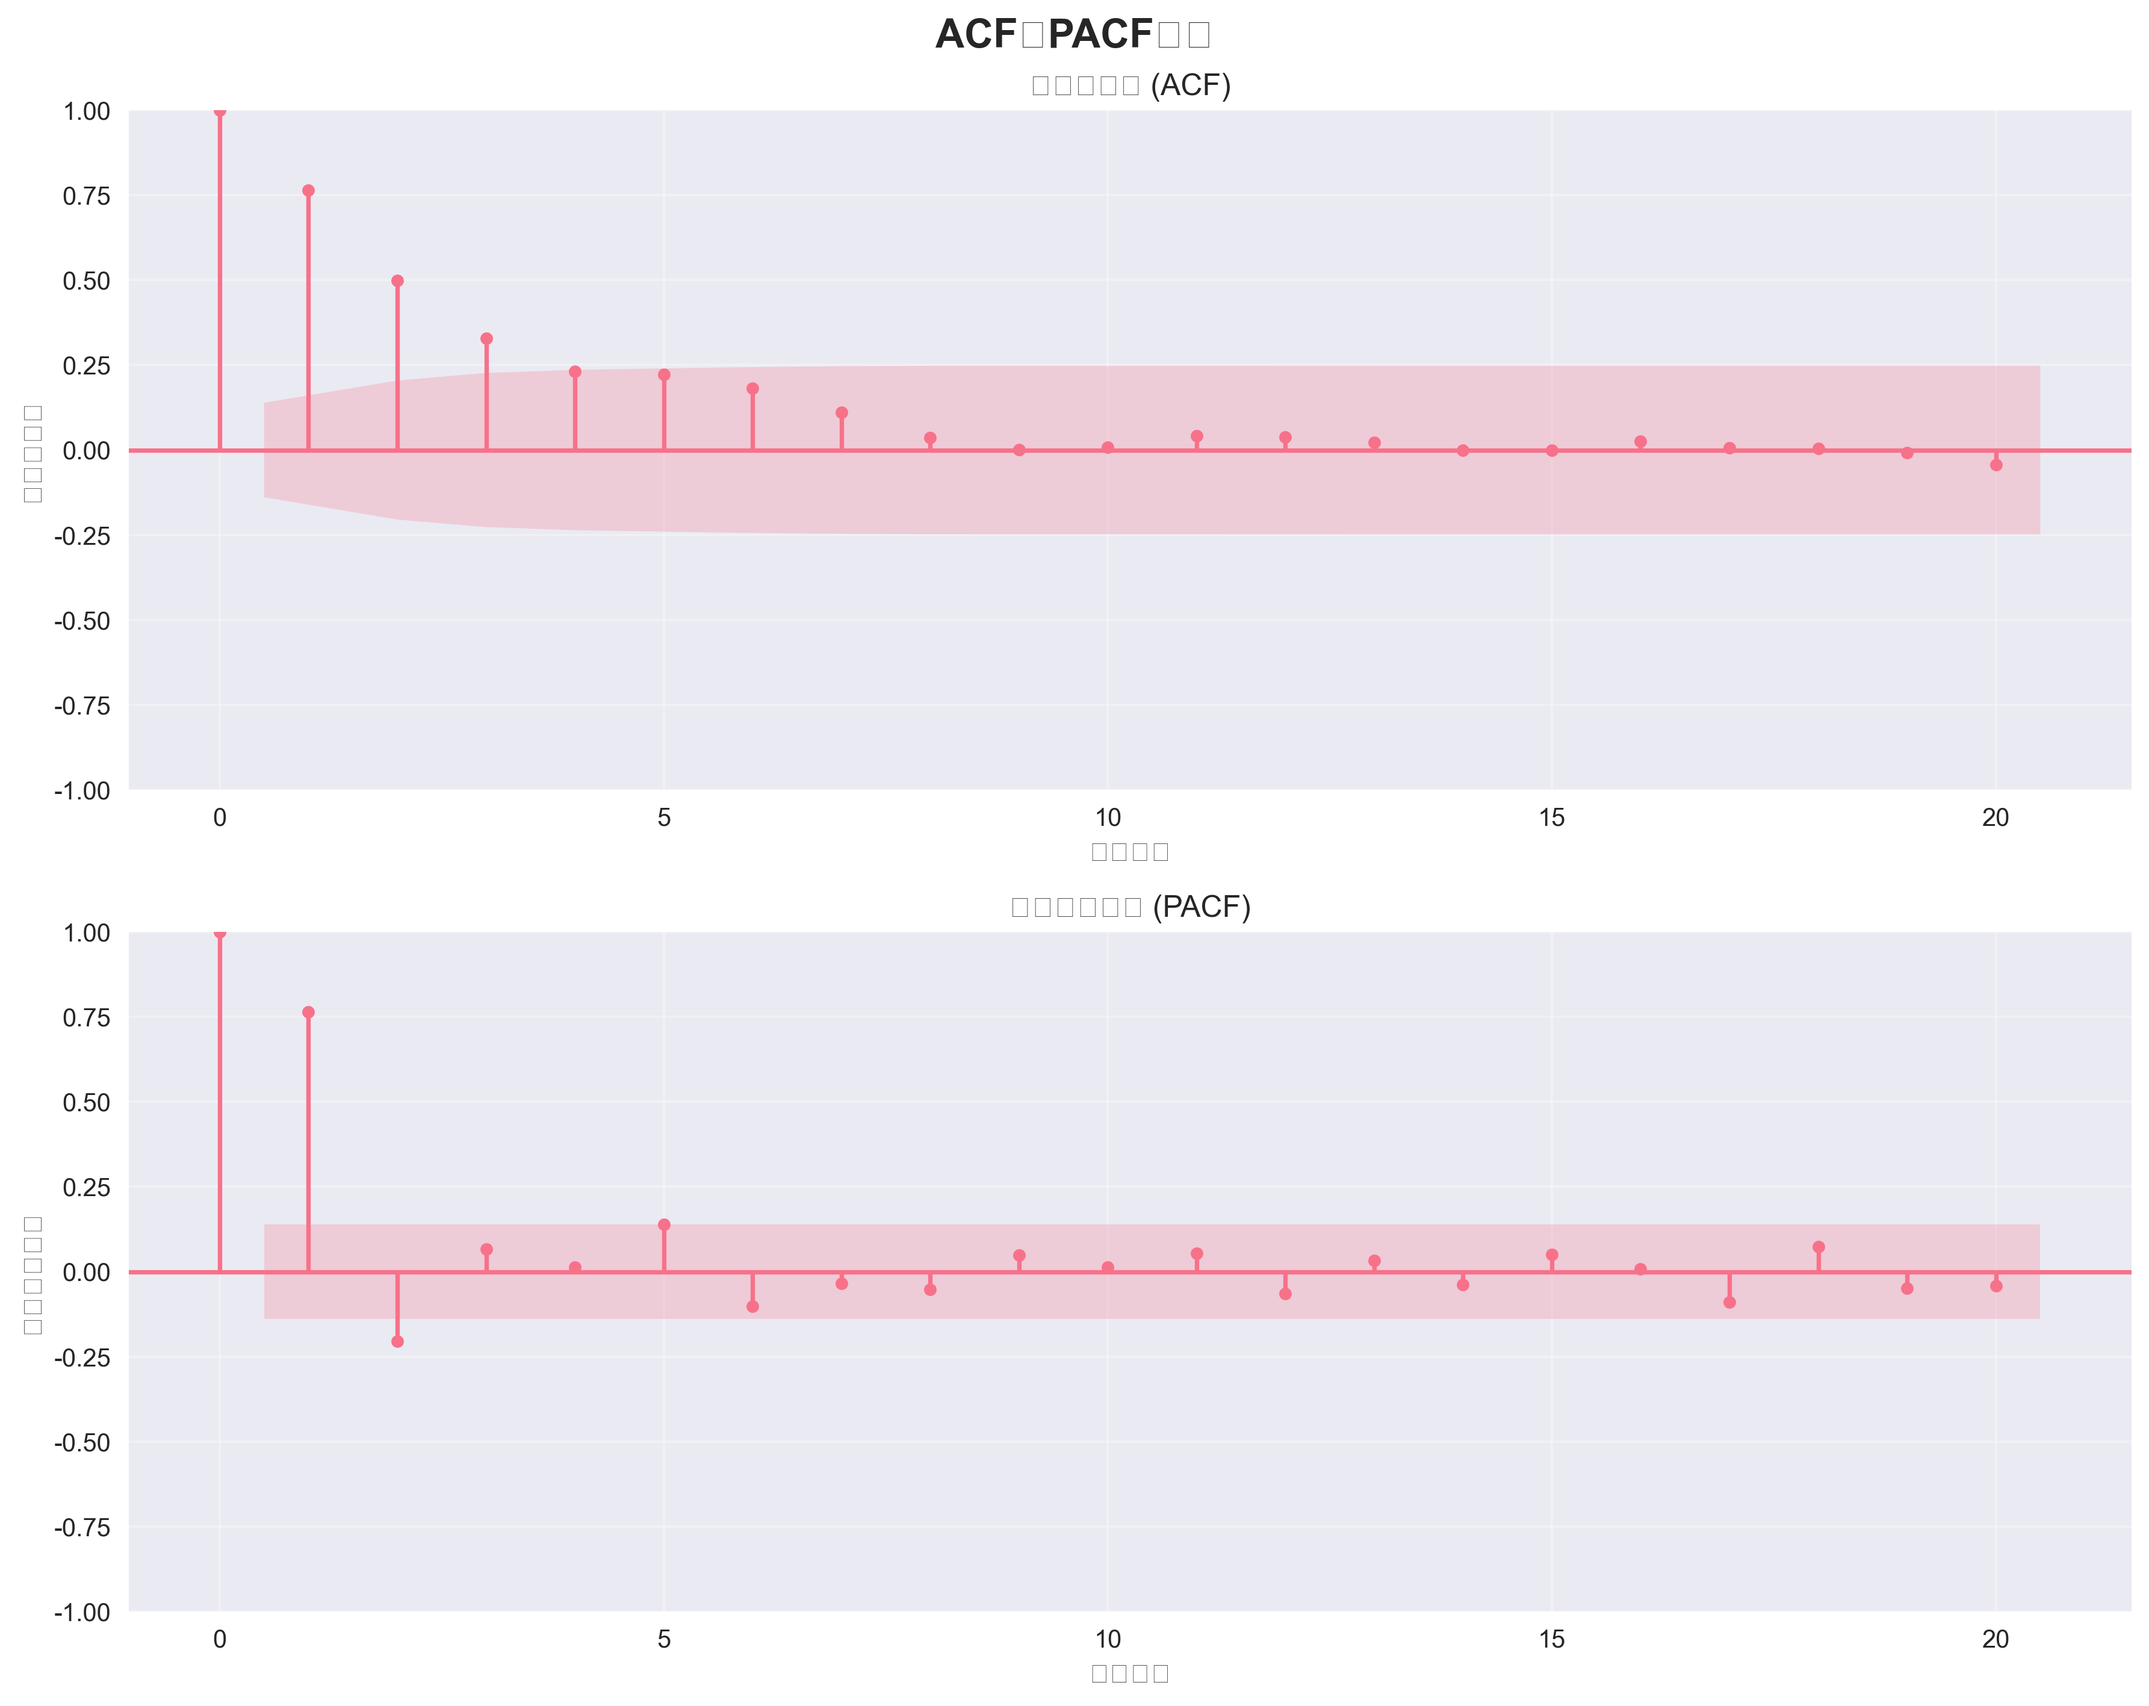
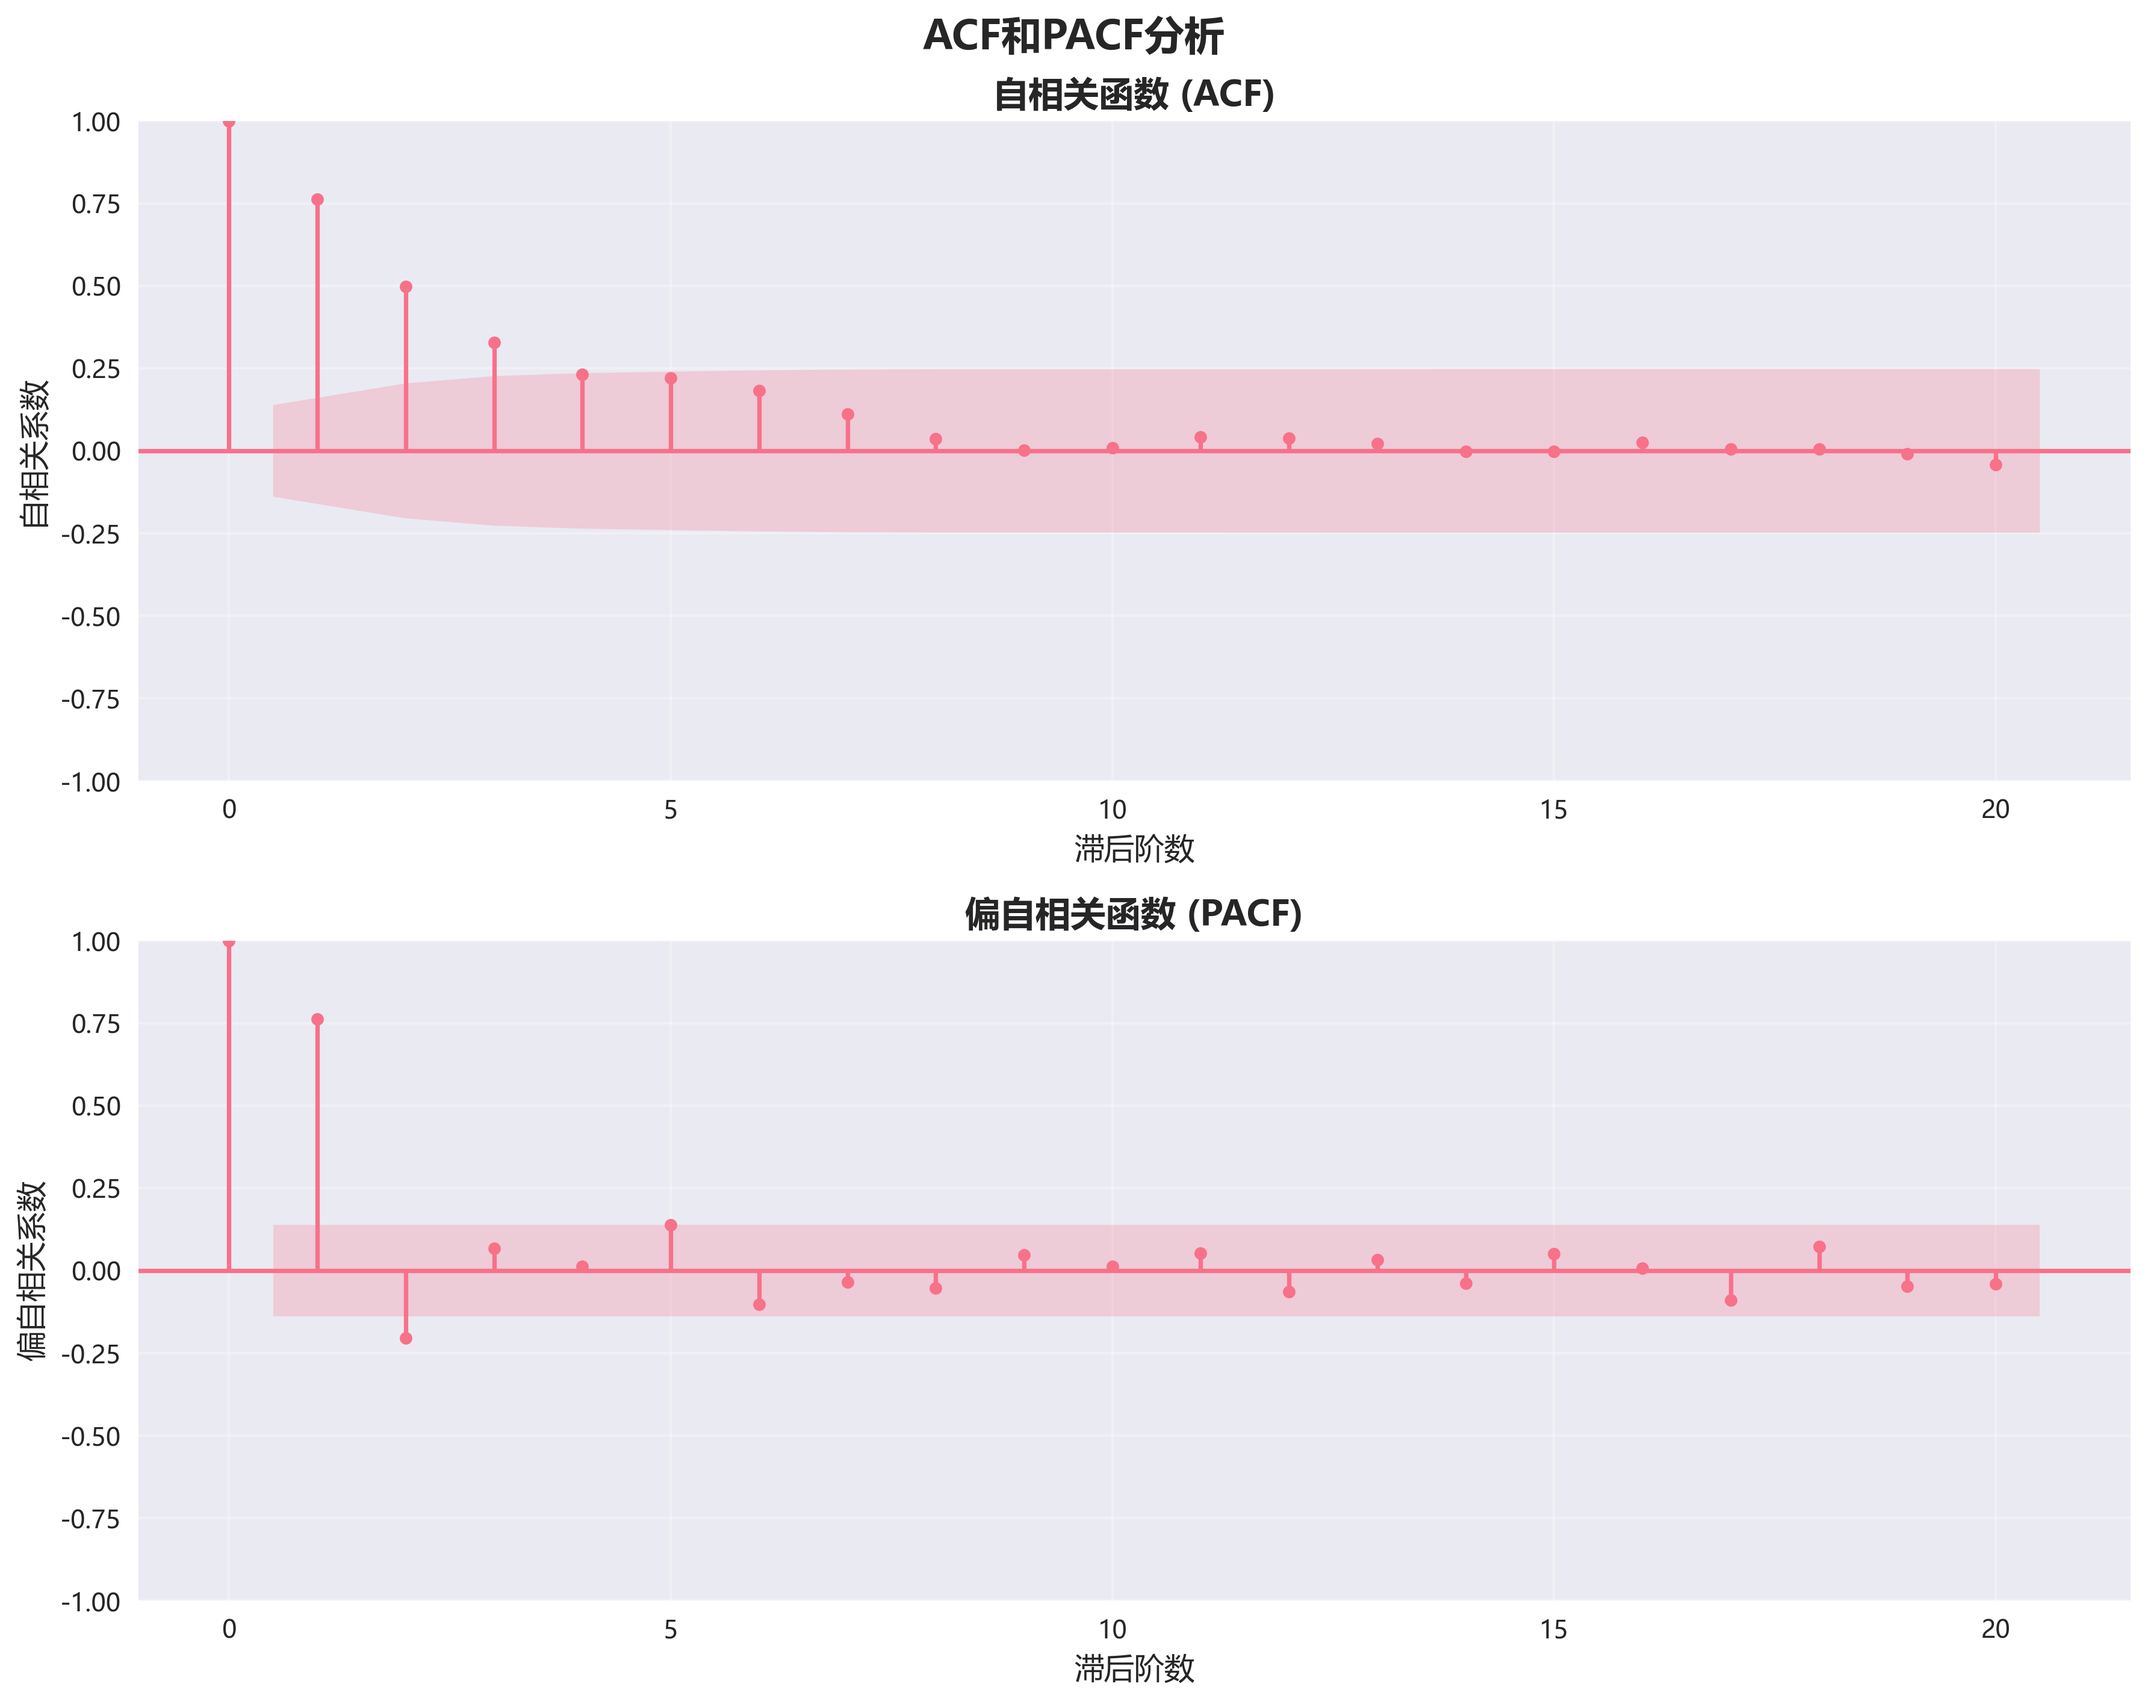
Refactor output paths and enhance Chinese font support
Updated output and data directory paths in example scripts to use 'data' and 'output' instead of 'examples/data' and 'examples/output'. Improved Chinese font handling in plotter.py for better cross-platform compatibility, with dynamic font selection and clearer font setup. Enhanced plot appearance with consistent font sizes and bold titles. Removed obsolete test output files.

diff --git a/time_series_insight/visualization/plotter.py b/time_series_insight/visualization/plotter.py
@@ -6,26 +6,91 @@
 
 import matplotlib.pyplot as plt
 import matplotlib.dates as mdates
+import matplotlib.font_manager as fm
 import seaborn as sns
 import numpy as np
 import pandas as pd
+import platform
 from typing import Dict, Any, Optional, Tuple, List
 from statsmodels.graphics.tsaplots import plot_acf, plot_pacf
 from statsmodels.tsa.seasonal import seasonal_decompose
 import warnings
 
-# 设置中文字体
-plt.rcParams['font.sans-serif'] = ['SimHei', 'Microsoft YaHei', 'DejaVu Sans']
-plt.rcParams['axes.unicode_minus'] = False
+
+def setup_chinese_fonts():
+    """
+    设置中文字体支持
+
+    根据不同操作系统自动选择合适的中文字体
+    """
+    system = platform.system()
+
+    # 定义不同系统的中文字体列表
+    font_candidates = []
+
+    if system == "Windows":
+        font_candidates = [
+            'Microsoft YaHei',
+            'SimHei',
+            'SimSun',
+            'KaiTi',
+            'FangSong'
+        ]
+    elif system == "Darwin":  # macOS
+        font_candidates = [
+            'PingFang SC',
+            'Hiragino Sans GB',
+            'STHeiti',
+            'Arial Unicode MS'
+        ]
+    else:  # Linux
+        font_candidates = [
+            'WenQuanYi Micro Hei',
+            'WenQuanYi Zen Hei',
+            'Noto Sans CJK SC',
+            'Source Han Sans SC',
+            'DejaVu Sans'
+        ]
+
+    # 获取系统可用字体
+    available_fonts = [f.name for f in fm.fontManager.ttflist]
+
+    # 选择第一个可用的中文字体
+    selected_font = None
+    for font in font_candidates:
+        if font in available_fonts:
+            selected_font = font
+            break
+
+    # 如果没有找到中文字体，使用默认字体
+    if selected_font is None:
+        selected_font = 'DejaVu Sans'
+        print(f"警告: 未找到合适的中文字体，使用默认字体 {selected_font}")
+        print("建议安装中文字体以获得更好的显示效果")
+
+    # 设置matplotlib字体参数
+    plt.rcParams['font.sans-serif'] = [selected_font] + font_candidates
+    plt.rcParams['axes.unicode_minus'] = False
+    plt.rcParams['font.size'] = 10
+
+    # 清除字体缓存
+    plt.rcParams['font.family'] = 'sans-serif'
+
+    print(f"已设置中文字体: {selected_font}")
+    return selected_font
+
+
+# 初始化中文字体设置
+setup_chinese_fonts()
 
 
 class TimeSeriesPlotter:
     """时间序列可视化器"""
-    
+
     def __init__(self, figsize: Tuple[int, int] = (12, 8), style: str = 'seaborn-v0_8'):
         """
         初始化可视化器
-        
+
         Args:
             figsize: 图形大小
             style: 绘图风格
@@ -35,27 +100,37 @@ class TimeSeriesPlotter:
             plt.style.use(style)
         except:
             plt.style.use('default')
-        
+
         # 设置seaborn样式
         sns.set_palette("husl")
+
+        # 确保中文字体设置
+        self._ensure_chinese_fonts()
+
+    def _ensure_chinese_fonts(self):
+        """确保中文字体设置正确"""
+        setup_chinese_fonts()
         
-    def plot_time_series(self, 
-                        data: pd.Series, 
+    def plot_time_series(self,
+                        data: pd.Series,
                         title: str = "时间序列图",
                         show_trend: bool = False,
                         save_path: Optional[str] = None) -> plt.Figure:
         """
         绘制时间序列图
-        
+
         Args:
             data: 时间序列数据
             title: 图表标题
             show_trend: 是否显示趋势线
             save_path: 保存路径
-            
+
         Returns:
             matplotlib图形对象
         """
+        # 确保中文字体设置
+        self._ensure_chinese_fonts()
+
         fig, ax = plt.subplots(figsize=self.figsize)
         
         # 绘制时间序列
@@ -86,7 +161,7 @@ class TimeSeriesPlotter:
         
         return fig
     
-    def plot_acf_pacf(self, 
+    def plot_acf_pacf(self,
                      data: pd.Series,
                      lags: int = 20,
                      alpha: float = 0.05,
@@ -94,40 +169,45 @@ class TimeSeriesPlotter:
                      save_path: Optional[str] = None) -> plt.Figure:
         """
         绘制ACF和PACF图
-        
+
         Args:
             data: 时间序列数据
             lags: 滞后阶数
             alpha: 置信水平
             title: 图表标题
             save_path: 保存路径
-            
+
         Returns:
             matplotlib图形对象
         """
+        # 确保中文字体设置
+        self._ensure_chinese_fonts()
+
         fig, (ax1, ax2) = plt.subplots(2, 1, figsize=(self.figsize[0], self.figsize[1]*1.2))
-        
+
         with warnings.catch_warnings():
             warnings.simplefilter("ignore")
-            
-            # 绘制ACF
-            plot_acf(data, lags=lags, alpha=alpha, ax=ax1, title='自相关函数 (ACF)')
-            ax1.set_xlabel('滞后阶数')
-            ax1.set_ylabel('自相关系数')
+
+            # 绘制ACF - 不使用默认标题，后面手动设置
+            plot_acf(data, lags=lags, alpha=alpha, ax=ax1, title=None)
+            ax1.set_title('自相关函数 (ACF)', fontsize=14, fontweight='bold')
+            ax1.set_xlabel('滞后阶数', fontsize=12)
+            ax1.set_ylabel('自相关系数', fontsize=12)
             ax1.grid(True, alpha=0.3)
-            
-            # 绘制PACF
-            plot_pacf(data, lags=lags, alpha=alpha, ax=ax2, title='偏自相关函数 (PACF)')
-            ax2.set_xlabel('滞后阶数')
-            ax2.set_ylabel('偏自相关系数')
+
+            # 绘制PACF - 不使用默认标题，后面手动设置
+            plot_pacf(data, lags=lags, alpha=alpha, ax=ax2, title=None)
+            ax2.set_title('偏自相关函数 (PACF)', fontsize=14, fontweight='bold')
+            ax2.set_xlabel('滞后阶数', fontsize=12)
+            ax2.set_ylabel('偏自相关系数', fontsize=12)
             ax2.grid(True, alpha=0.3)
-        
+
         fig.suptitle(title, fontsize=16, fontweight='bold')
         plt.tight_layout()
-        
+
         if save_path:
             plt.savefig(save_path, dpi=300, bbox_inches='tight')
-        
+
         return fig
     
     def plot_decomposition(self, 
@@ -162,24 +242,28 @@ class TimeSeriesPlotter:
             
             # 原始数据
             axes[0].plot(data.index, data.values, linewidth=1.5)
-            axes[0].set_title('原始数据')
+            axes[0].set_title('原始数据', fontsize=12, fontweight='bold')
+            axes[0].set_ylabel('数值', fontsize=10)
             axes[0].grid(True, alpha=0.3)
-            
+
             # 趋势
             axes[1].plot(decomposition.trend.index, decomposition.trend.values, linewidth=1.5, color='orange')
-            axes[1].set_title('趋势')
+            axes[1].set_title('趋势', fontsize=12, fontweight='bold')
+            axes[1].set_ylabel('趋势值', fontsize=10)
             axes[1].grid(True, alpha=0.3)
-            
+
             # 季节性
             axes[2].plot(decomposition.seasonal.index, decomposition.seasonal.values, linewidth=1.5, color='green')
-            axes[2].set_title('季节性')
+            axes[2].set_title('季节性', fontsize=12, fontweight='bold')
+            axes[2].set_ylabel('季节值', fontsize=10)
             axes[2].grid(True, alpha=0.3)
-            
+
             # 残差
             axes[3].plot(decomposition.resid.index, decomposition.resid.values, linewidth=1.5, color='red')
-            axes[3].set_title('残差')
+            axes[3].set_title('残差', fontsize=12, fontweight='bold')
+            axes[3].set_ylabel('残差值', fontsize=10)
             axes[3].grid(True, alpha=0.3)
-            axes[3].set_xlabel('时间')
+            axes[3].set_xlabel('时间', fontsize=10)
             
             fig.suptitle(title, fontsize=16, fontweight='bold')
             plt.tight_layout()
@@ -412,13 +496,19 @@ class TimeSeriesPlotter:
             ax2 = plt.subplot(n_plots, 2, 3)
             with warnings.catch_warnings():
                 warnings.simplefilter("ignore")
-                plot_acf(acf_pacf_data, lags=20, ax=ax2, title='ACF')
+                plot_acf(acf_pacf_data, lags=20, ax=ax2, title=None)
+                ax2.set_title('自相关函数 (ACF)', fontsize=12, fontweight='bold')
+                ax2.set_xlabel('滞后阶数', fontsize=10)
+                ax2.set_ylabel('自相关系数', fontsize=10)
                 ax2.grid(True, alpha=0.3)
-            
+
             ax3 = plt.subplot(n_plots, 2, 4)
             with warnings.catch_warnings():
                 warnings.simplefilter("ignore")
-                plot_pacf(acf_pacf_data, lags=20, ax=ax3, title='PACF')
+                plot_pacf(acf_pacf_data, lags=20, ax=ax3, title=None)
+                ax3.set_title('偏自相关函数 (PACF)', fontsize=12, fontweight='bold')
+                ax3.set_xlabel('滞后阶数', fontsize=10)
+                ax3.set_ylabel('偏自相关系数', fontsize=10)
                 ax3.grid(True, alpha=0.3)
         
         # 3. 残差诊断（如果提供了残差）
@@ -429,16 +519,17 @@ class TimeSeriesPlotter:
             ax4 = plt.subplot(n_plots, 2, start_row*2-1)
             ax4.plot(residuals.index, residuals.values, linewidth=1)
             ax4.axhline(y=0, color='r', linestyle='--', alpha=0.8)
-            ax4.set_title('残差时间序列')
-            ax4.set_ylabel('残差')
+            ax4.set_title('残差时间序列', fontsize=12, fontweight='bold')
+            ax4.set_ylabel('残差', fontsize=10)
+            ax4.set_xlabel('时间', fontsize=10)
             ax4.grid(True, alpha=0.3)
-            
+
             # 残差直方图
             ax5 = plt.subplot(n_plots, 2, start_row*2)
             ax5.hist(residuals.dropna(), bins=20, density=True, alpha=0.7, edgecolor='black')
-            ax5.set_title('残差分布')
-            ax5.set_xlabel('残差值')
-            ax5.set_ylabel('密度')
+            ax5.set_title('残差分布', fontsize=12, fontweight='bold')
+            ax5.set_xlabel('残差值', fontsize=10)
+            ax5.set_ylabel('密度', fontsize=10)
             ax5.grid(True, alpha=0.3)
         
         plt.suptitle('时间序列分析综合报告', fontsize=16, fontweight='bold')

diff --git a/examples/basic_usage.py b/examples/basic_usage.py
@@ -102,7 +102,7 @@ def example_2_file_analysis():
     from sample_data import generate_arima_data
     
     # 创建数据目录
-    data_dir = Path("examples/data")
+    data_dir = Path("data")
     data_dir.mkdir(exist_ok=True)
     
     # 生成数据
@@ -149,7 +149,7 @@ def example_3_visualization():
     
     # 生成图表
     print("\n1. 生成可视化图表...")
-    output_dir = Path("examples/output")
+    output_dir = Path("output")
     output_dir.mkdir(exist_ok=True)
     
     plots_info = tsi.plot_analysis(
@@ -220,7 +220,7 @@ def example_5_export_results():
     tsi = example_1_basic_analysis()
     
     # 创建输出目录
-    output_dir = Path("examples/output")
+    output_dir = Path("output")
     output_dir.mkdir(exist_ok=True)
     
     # 导出JSON格式
